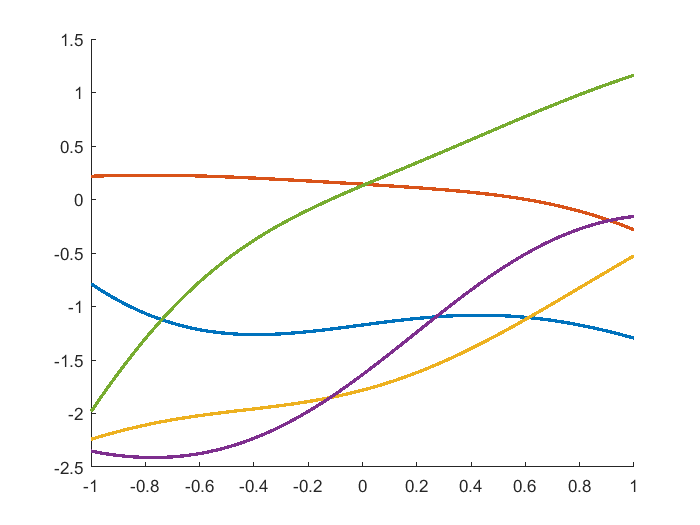
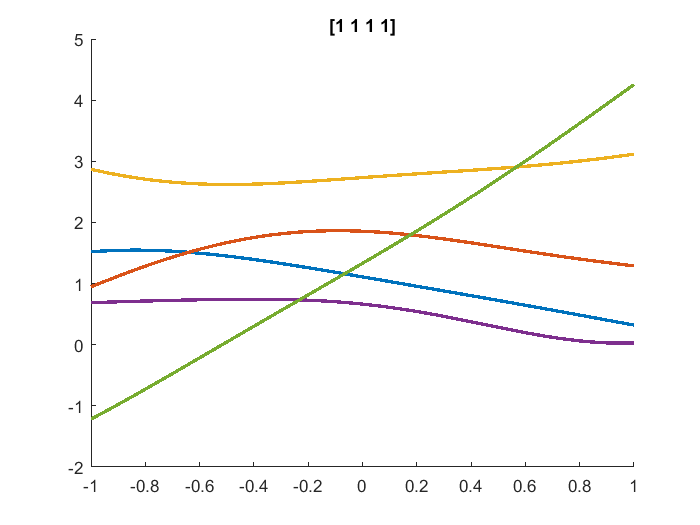
Added ex. 4

diff --git a/Assignment 4/GaussProc.m b/Assignment 4/GaussProc.m
@@ -1,46 +1,60 @@
-thetas = [1 1 1 1;
+%% define some variables
+thetas = [1 1 0 0;
           1 4 0 0;
           9 4 0 0;
           1 64 0 0;
           1 0.25 0 0;
           1 4 10 0;
           1 4 0 5];
+theta = thetas(1,:);
 N = 101;
-
 X = linspace(-1,1,N);
-K = zeros(size(thetas,1),101,101);
 
-% populate the gram matrix
+%% compute the gram matrix for each value of theta
+K = zeros(size(thetas,1),N,N);
 for t=1:size(thetas,1)
-    for n=1:size(K,2)
-        for m=1:size(K,3)
-            K(t,n,m) = kernel(thetas(t,:), X(n), X(m));
-        end
-    end
+    K(t,:,:) = gram_matrix(thetas(t,:), X, @kernel);
 end
 
+%% sample 5 random functions
 mu = zeros(101,1)';
-rng 'default';
-% sample 5 random functions. Repeat for all thetas
-for t=1:size(thetas,1)
+rng(42);%'default';
+
+figure(); hold on;
+samples = mvnrnd(mu, squeeze(K(1,:,:)), 5);
+plot(X, samples, 'Linewidth', 2)
+title(strcat('[', sprintf('%d ', fix(theta)), ']'))
+hold off;
+
+%% repeat for all thetas
+figure(); hold on;
+for t=2:size(thetas,1)
     sigma = squeeze(K(t,:,:));
     samples = mvnrnd(mu, sigma, 5);
 
     % plot the sampled functions
-    figure(t); hold on;
-%     for i=1:5
-        plot(X, samples, 'Linewidth', 2)
-%     end
-    hold off;
+    subplot(2,3,t-1);
+    plot(X, samples, 'Linewidth', 2)
+    title(strcat('[', sprintf('%d ', fix(thetas(t,:))), ']'))
 end
+hold off;
 
-% % compute the gram matrix for the training dataset
-% D = [-0.5 0.5; 0.2 -1; 0.3 3; -0.1 -2.5];
-% K_5 = zeros(size(D,1),size(D,1))
-% for i=1:size(K_5,1)
-%     for j=1:size(K_5,2)
-%         K_5(i,j) = kernel(thetas(1), D(i,2), D(j,2));
-%     end
-% end
-% 
-% K_5
+%% compute the gram matrix for the training dataset
+D = [-0.5 0.5; 0.2 -1; 0.3 3; -0.1 -2.5];
+K_4 = gram_matrix(theta, D(:,1), @kernel);
+
+% K_4
+%% compute the predictive distribution
+x_n_1 = 0;
+beta = 1;
+
+k = arrayfun(@(x) kernel(theta, x, x_n_1), D(:,1));
+c = kernel(theta, x_n_1, x_n_1) + 1/beta;
+C_N = K_4;
+C_N(1:size(C_N,1)+1:end) = diag(C_N) + 1/beta;
+
+% C_N
+
+C_N_i = inv(C_N);
+m = k'*C_N_i*D(:,2);
+s_2 = c - k'*C_N_i*k;

diff --git a/Assignment 4/gram_matrix.m b/Assignment 4/gram_matrix.m
@@ -1,0 +1,15 @@
+function f = gram_matrix(theta, X, k)
+    N = length(X);
+    K_ = zeros(N,N);
+    %% populate the gram matrix. Only compute half the matrix, then mirror it
+    for n=1:N
+        for m=n:N
+            K_(n,m) = k(theta, X(n), X(m));
+        end
+    end
+    % mirror the matrix (copy back the diagonal)
+    K_ = K_'+K_;
+    K_(1:N+1:end) = diag(K_)/2;
+    
+    f = K_;
+end

diff --git a/Assignment 4/kernel.m b/Assignment 4/kernel.m
@@ -8,4 +8,3 @@ function f = kernel(theta, x, x_prime)
     
     f = theta_0 * exp(-(theta_1/2)*norm_2) + theta_2 + theta_3 * (x'*x_prime);  
 end
-
